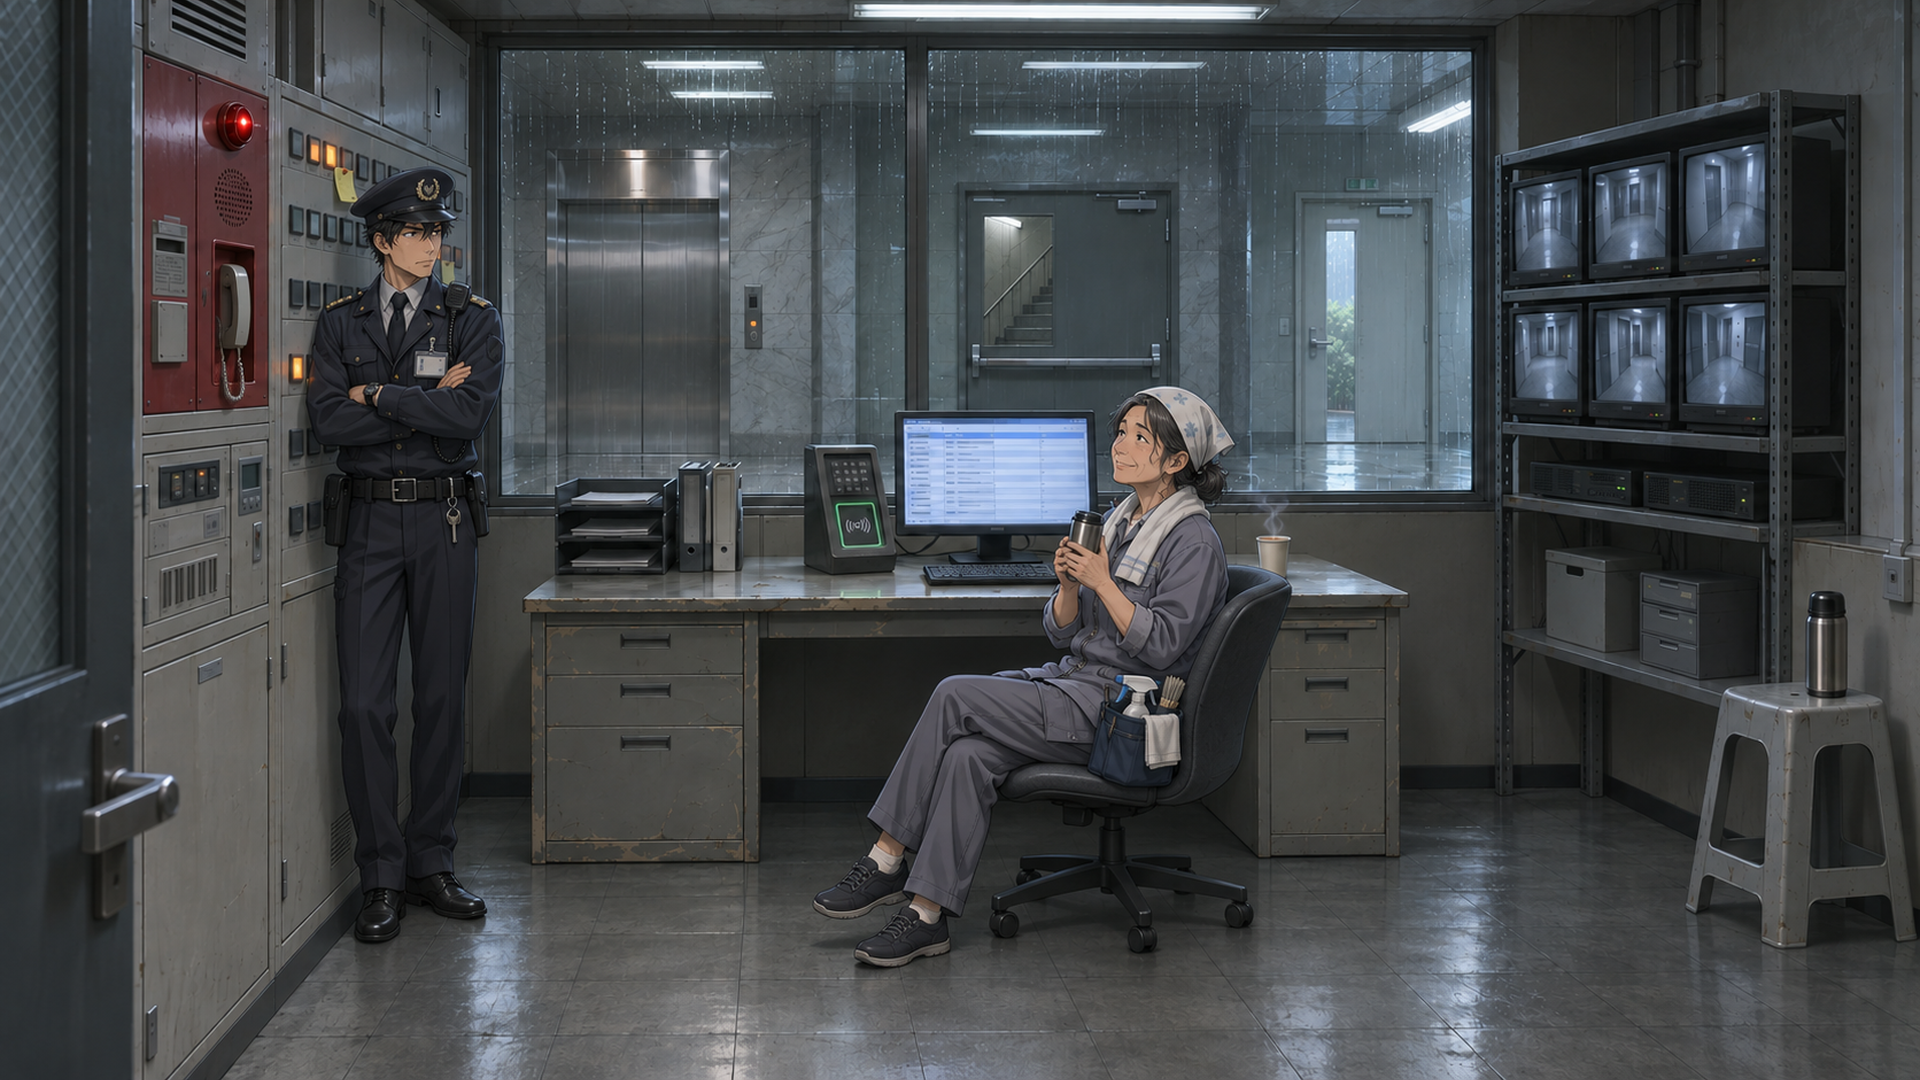
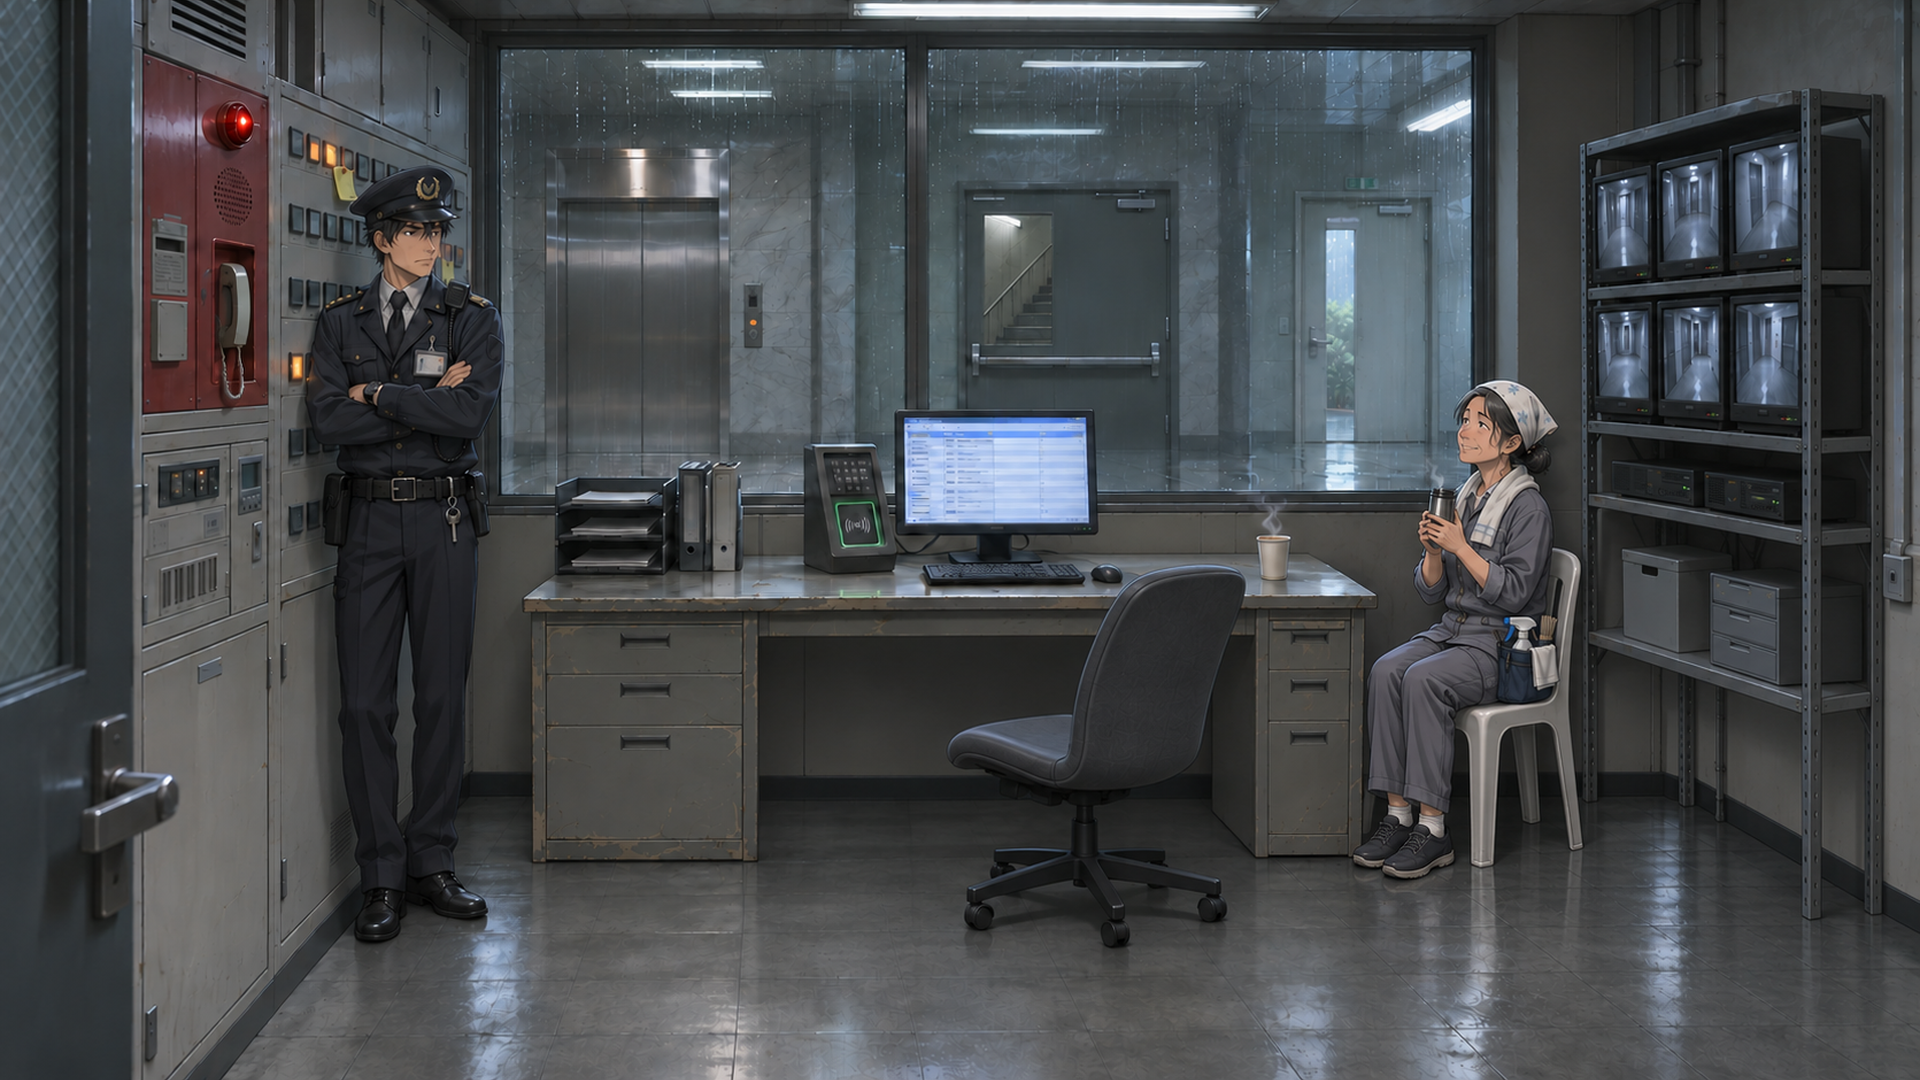
art: seat cleaner against disaster center wall

diff --git a/docs/stories_plan/chapter_2/investigation_scene_14.md b/docs/stories_plan/chapter_2/investigation_scene_14.md
@@ -549,7 +549,7 @@
 
 ## Sub-location: 防災中心 {#disaster_center}
 - **Status:** locked
-- **Background Prompt:** Investigation view inside the daytime duty room of a commercial building's disaster-prevention center, eye-level wide shot from just inside the door, used to read the building's own records of that night; focal area across three clear zones: at the left a whole wall covered by a fire-alarm and building-systems panel with rows of small status lamps, mostly dark with a few rows lit amber and tiny yellow police notes stuck beside several lamps; at the center on a worn duty desk a desk-mounted access-control terminal with a card reader and a bright screen of abstract rows; at the right on a shelf a bank of small gray CCTV monitors showing dim grainy frames of building doors; stable anchors of a large glass window in the back wall looking out onto the first-floor service-core corridor with the brushed steel door of service elevator B, a heavy gray evacuation-stair door with a push bar, and at the far end a pale back-exit door with rainy daylight at its edges; a swivel chair pushed back from the desk, a paper cup of tea going cold beside the terminal, a plastic stool against the right wall with a small thermos on it; the building guard in a dark security uniform stands beside the left panel, and the cleaning worker in their fifties sits in the swivel chair holding a thermos cup, their silhouettes separate and the panel, terminal and CCTV monitors still visible; cold fluorescent light mixed with the gray window light, no blue umbrellas, lower third kept as plain floor tile and desk edge for dialogue UI, no readable text, no UI overlay, neo-noir visual novel background.
+- **Background Prompt:** Investigation view inside the daytime duty room of a commercial building's disaster-prevention center, eye-level wide shot from just inside the door, used to read the building's own records of that night; focal area across three clear zones: at the left a whole wall covered by a fire-alarm and building-systems panel with rows of small status lamps, mostly dark with a few rows lit amber and tiny yellow police notes stuck beside several lamps; at the center on a worn duty desk a desk-mounted access-control terminal with a card reader and a bright screen of abstract rows; at the right on a shelf a bank of small gray CCTV monitors showing dim grainy frames of building doors; stable anchors of a large glass window in the back wall looking out onto the first-floor service-core corridor with the brushed steel door of service elevator B, a heavy gray evacuation-stair door with a push bar, and at the far end a pale back-exit door with rainy daylight at its edges; a swivel chair pushed back from the desk leaving the access terminal unobstructed, a paper cup of tea going cold beside the terminal, a plastic chair against the right wall; the building guard in a dark security uniform stands beside the left panel, and the cleaning worker in their fifties sits on the wall-side plastic chair holding a thermos cup, their silhouettes separate and the panel, terminal and CCTV monitors still visible; cold fluorescent light mixed with the gray window light, no blue umbrellas, lower third kept as plain floor tile and desk edge for dialogue UI, no readable text, no UI overlay, neo-noir visual novel background.
 - **BGM:** bgm_casework_day
 - **BGS:** bgs_institutional_corridor
 
